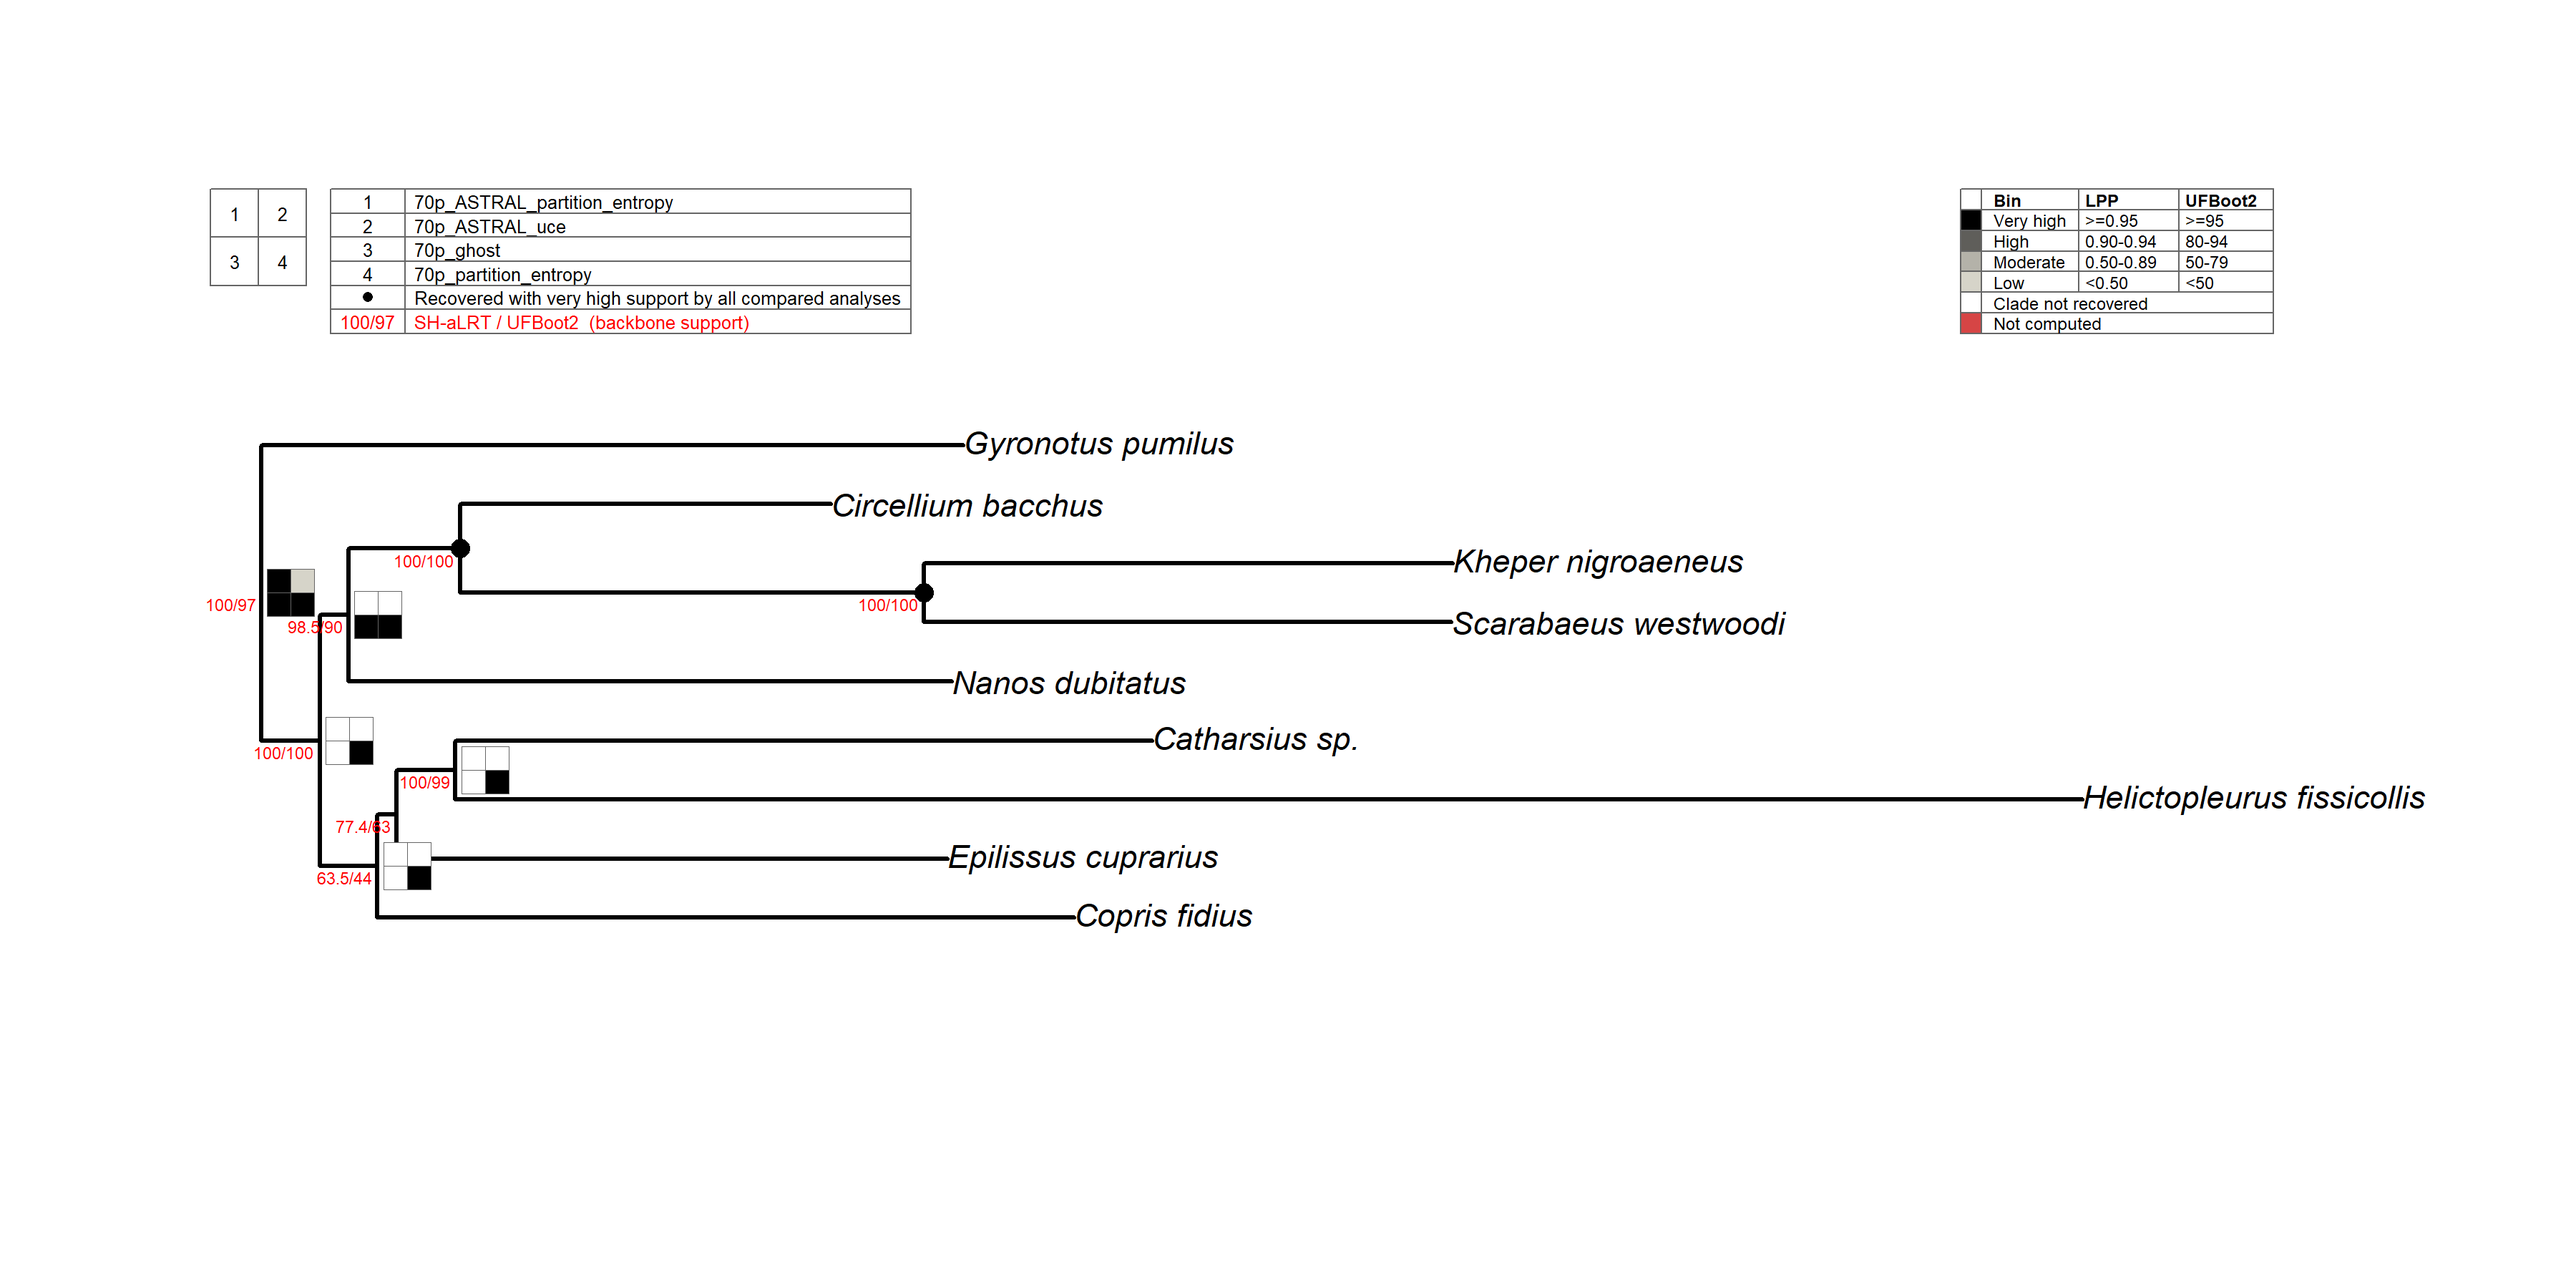
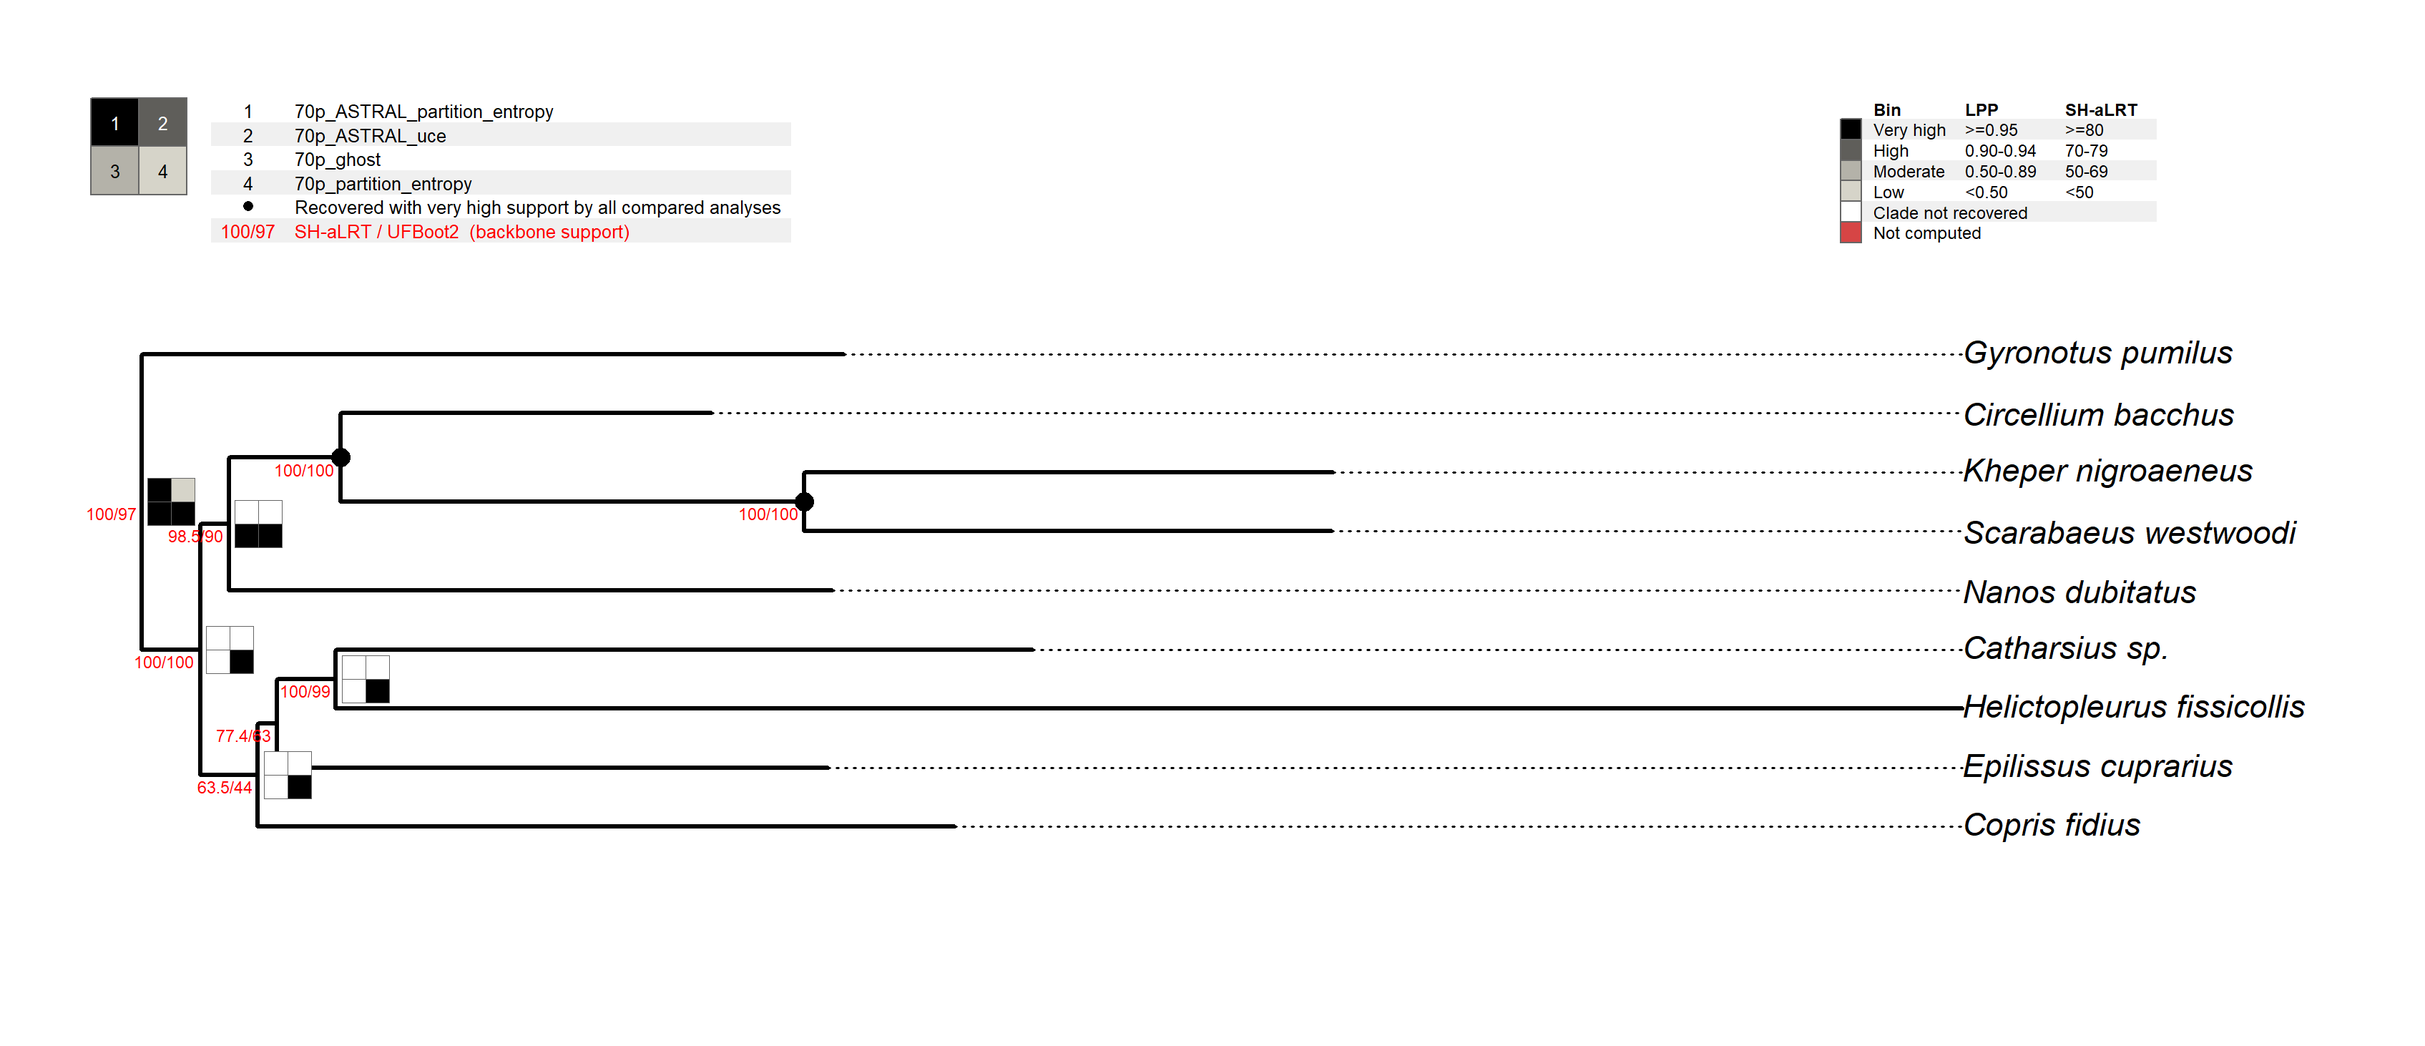
README: new-legend figures, remove stray heading

diff --git a/README.md b/README.md
@@ -68,7 +68,7 @@ how strongly each analysis supports a given clade, from black (very
 high) through progressively lighter greys to the lightest (low). White
 means the clade was not recovered; red means it was recovered but
 carries no support value. Each support value is binned against its own
-metric’s thresholds, UFBoot2 95 and LPP 0.95 are never treated as
+metric’s thresholds: UFBoot2 95 and LPP 0.95 are never treated as
 equivalent. Default thresholds are provided, but users are encouraged to
 set their own.
 
@@ -123,8 +123,8 @@ check_taxa(backbone, others)
 npm <- node_presence_matrix(backbone, others, support_col = 1, support_type = c(
                 "70p_ASTRAL_partition_entropy" = "lpp",
                 "70p_ASTRAL_uce"               = "lpp",
-                "70p_ghost"                    = "ufboot",
-                "70p_partition_entropy"        = "ufboot"))
+                "70p_ghost"                    = "sh_alrt",
+                "70p_partition_entropy"        = "sh_alrt"))
 
 # Presence mode: Which analyses recover each clade?
 plot_phylorug(backbone, npm)
@@ -168,8 +168,6 @@ helpers are available when your data needs them:
 You can learn more about each step in `vignette("phylorug")`.
 
 ### Dependencies
-
-# new
 
 **phylorug** depends on [ape](https://CRAN.R-project.org/package=ape)
 and [phangorn](https://CRAN.R-project.org/package=phangorn). No other
